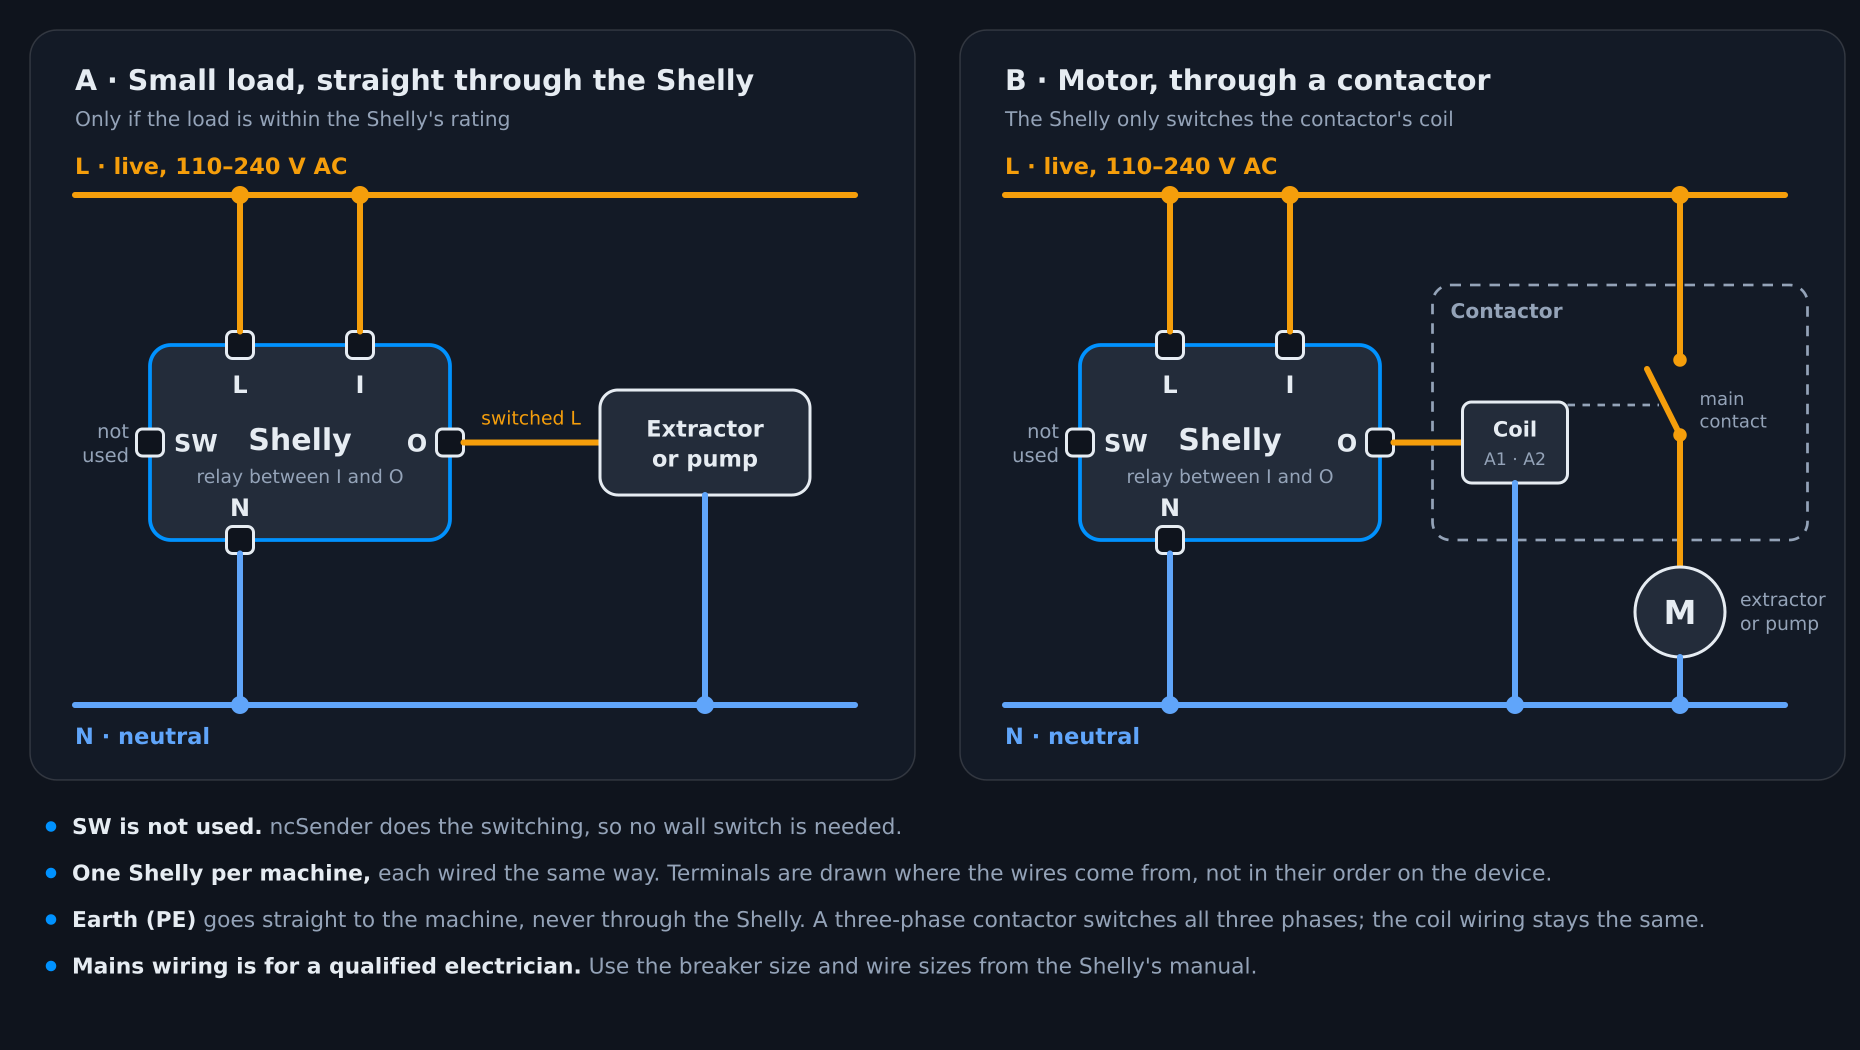
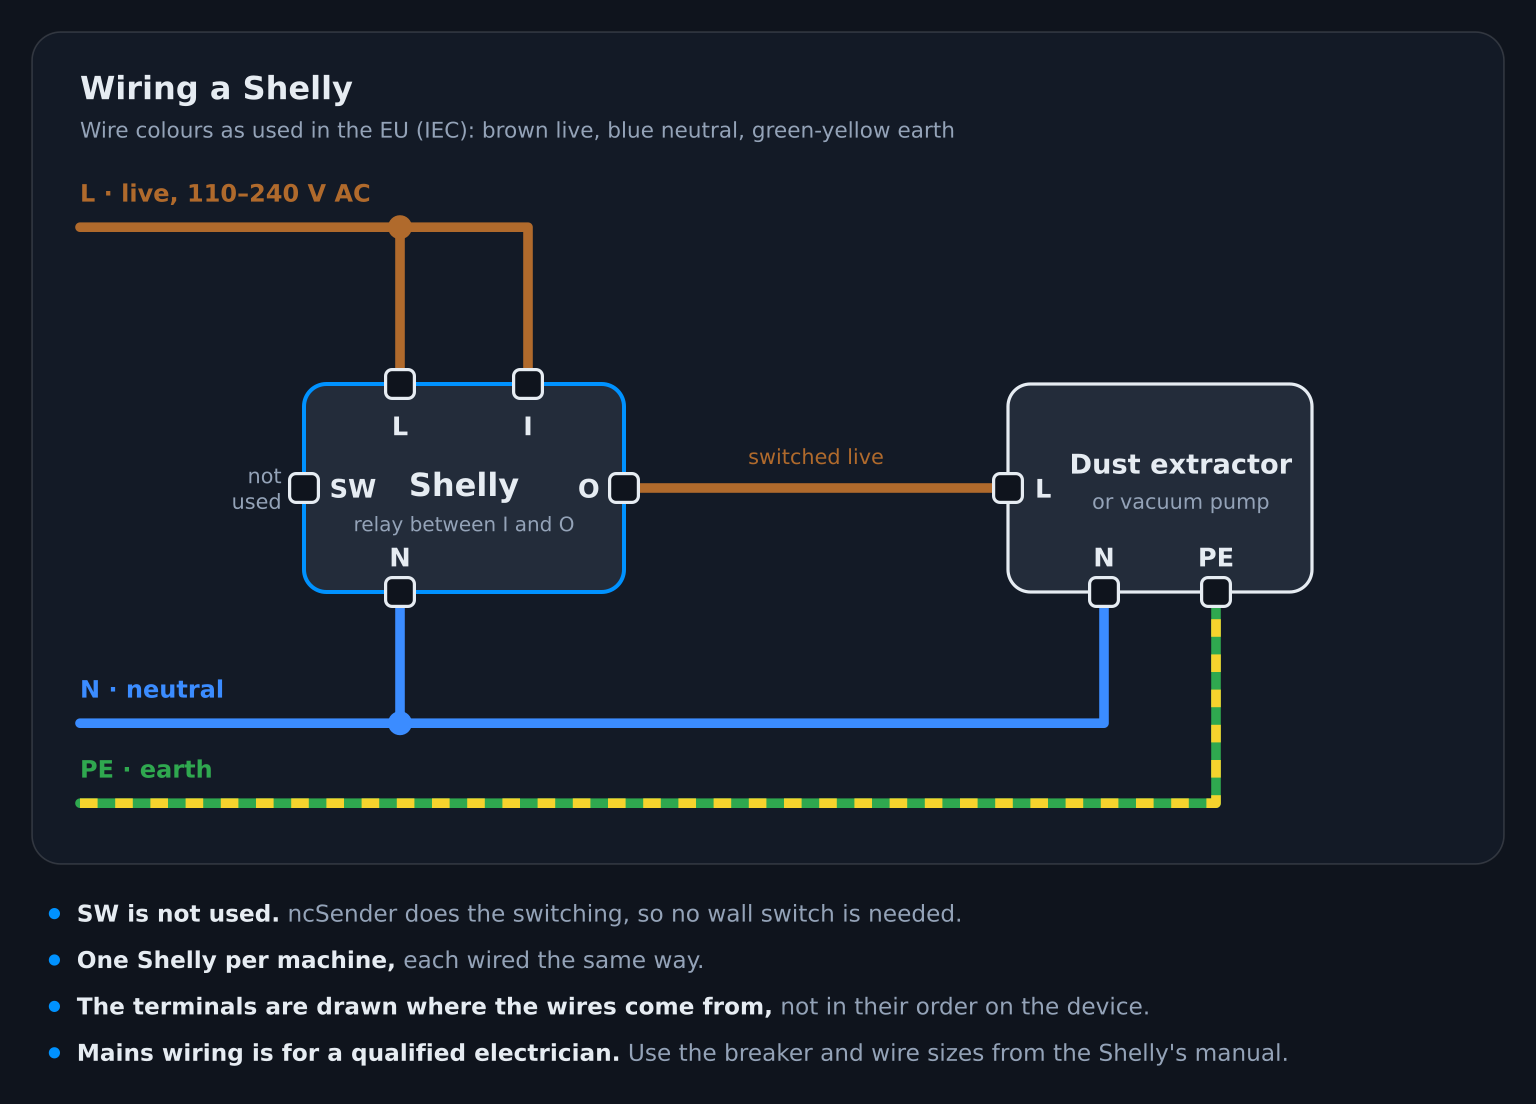
README: wiring diagram in real cable colours, standard circuit only
Claude-Session: https://claude.ai/code/session_019AaE9R7vvAopES3KYYf7GG

diff --git a/README.md b/README.md
@@ -29,7 +29,7 @@ Use outputs with nothing wired to them: the plugin turns them on by itself.
 
 #### Wiring
 
-![Wiring a Shelly relay: straight to a small load, or through a contactor for a motor. The SW terminal is not used.](docs/wiring.png)
+![Wiring a Shelly relay in EU cable colours: brown live to L and I, O to the machine, blue neutral, green-yellow earth straight to the machine. The SW terminal is not used.](docs/wiring.png)
 
 Each Shelly is wired the same way. No wall switch is needed: the SW terminal stays empty.
 
